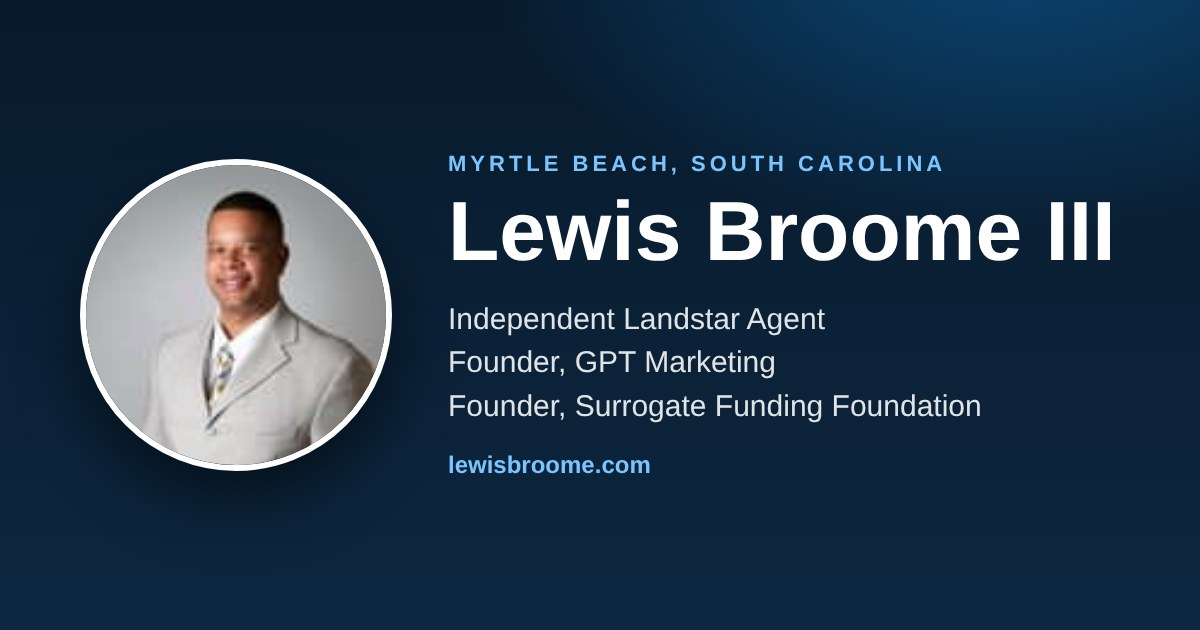
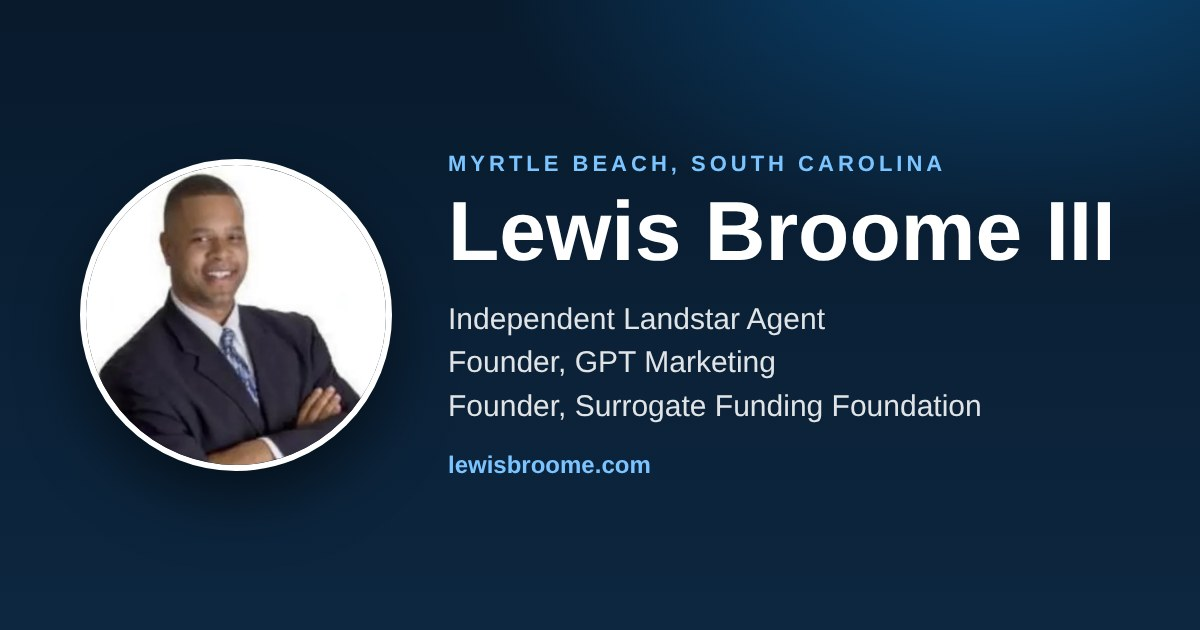
Lewis Broome page: real photos (The Closer headshot + 10-photo gallery), image sitemap, new share card
Claude-Session: https://claude.ai/code/session_015JXEzYEpCVQcp5Sg3sXWgy

Changed region(s): [[0.0617, 0.2413, 0.3392, 0.754]]

diff --git a/lewis-broome.html b/lewis-broome.html
@@ -21,6 +21,7 @@
 <meta name="twitter:title" content="Lewis Broome III · Landstar Agent &amp; Founder of GPT Marketing" />
 <meta name="twitter:description" content="Freight agent, marketing founder and community builder from Myrtle Beach, SC." />
 <meta name="twitter:image" content="https://www.lewisbroome.com/assets/lewis-broome-iii-card.jpg" />
+<link rel="preload" as="image" href="/assets/lewis-broome/lewis-broome-iii-landstar-agent-headshot.jpg" />
 <meta name="geo.region" content="US-SC" />
 <meta name="geo.placename" content="Myrtle Beach, South Carolina" />
 
@@ -32,6 +33,7 @@
   "url": "https://www.lewisbroome.com/lewis-broome",
   "name": "Lewis Broome III",
   "dateModified": "2026-11-14",
+  "primaryImageOfPage": { "@type": "ImageObject", "url": "https://www.lewisbroome.com/assets/lewis-broome/lewis-broome-iii-landstar-agent-headshot.jpg" },
   "mainEntity": {
     "@type": "Person",
     "@id": "https://www.lewisbroome.com/#lewis-broome",
@@ -41,11 +43,83 @@
     "familyName": "Broome",
     "honorificSuffix": "III",
     "url": "https://www.lewisbroome.com/lewis-broome",
-    "image": {
-      "@type": "ImageObject",
-      "url": "https://www.lewisbroome.com/assets/lewis-broome-iii.jpg",
-      "caption": "Lewis Broome III, Landstar agent and founder of GPT Marketing"
-    },
+    "image": [
+      {
+        "@type": "ImageObject",
+        "url": "https://www.lewisbroome.com/assets/lewis-broome-iii.jpg",
+        "caption": "Lewis Broome III, Landstar agent and founder of GPT Marketing"
+      },
+      {
+        "@type": "ImageObject",
+        "url": "https://www.lewisbroome.com/assets/lewis-broome/lewis-broome-iii-the-closer-suit.jpg",
+        "caption": "Lewis Broome III, “The Closer.” The original LewisBroome.com photo.",
+        "width": 435,
+        "height": 1220
+      },
+      {
+        "@type": "ImageObject",
+        "url": "https://www.lewisbroome.com/assets/lewis-broome/lewis-broome-iii-tesla-blue-polo.jpg",
+        "caption": "Lewis Broome III on the road in Myrtle Beach.",
+        "width": 1200,
+        "height": 1600
+      },
+      {
+        "@type": "ImageObject",
+        "url": "https://www.lewisbroome.com/assets/lewis-broome/lewis-broome-iii-fireworks-store.jpg",
+        "caption": "Lewis Broome III on the fireworks side of the business.",
+        "width": 745,
+        "height": 1512
+      },
+      {
+        "@type": "ImageObject",
+        "url": "https://www.lewisbroome.com/assets/lewis-broome/lewis-broome-iii-myrtle-beach-skywheel.jpg",
+        "caption": "Lewis Broome III at the SkyWheel, Myrtle Beach boardwalk.",
+        "width": 1600,
+        "height": 1200
+      },
+      {
+        "@type": "ImageObject",
+        "url": "https://www.lewisbroome.com/assets/lewis-broome/lewis-broome-iii-myrtle-beach-oceanfront.jpg",
+        "caption": "Lewis Broome III on the beach in Myrtle Beach.",
+        "width": 1600,
+        "height": 1200
+      },
+      {
+        "@type": "ImageObject",
+        "url": "https://www.lewisbroome.com/assets/lewis-broome/lewis-broome-iii-boat-radio.jpg",
+        "caption": "Lewis Broome III on the water, radio in hand.",
+        "width": 1200,
+        "height": 1600
+      },
+      {
+        "@type": "ImageObject",
+        "url": "https://www.lewisbroome.com/assets/lewis-broome/lewis-broome-iii-tesla-black-polo.jpg",
+        "caption": "Lewis Broome III between calls.",
+        "width": 1600,
+        "height": 1200
+      },
+      {
+        "@type": "ImageObject",
+        "url": "https://www.lewisbroome.com/assets/lewis-broome/lewis-broome-iii-myrtle-beach-hat.jpg",
+        "caption": "Lewis Broome III, Myrtle Beach, SC.",
+        "width": 1200,
+        "height": 1600
+      },
+      {
+        "@type": "ImageObject",
+        "url": "https://www.lewisbroome.com/assets/lewis-broome/lewis-broome-iii-game-day.jpg",
+        "caption": "Lewis Broome III on game day.",
+        "width": 1200,
+        "height": 1600
+      },
+      {
+        "@type": "ImageObject",
+        "url": "https://www.lewisbroome.com/assets/lewis-broome/lewis-broome-iii-headset.jpg",
+        "caption": "Lewis Broome III on the phones.",
+        "width": 1320,
+        "height": 1275
+      }
+    ],
     "jobTitle": "Independent Landstar Agent; Founder of GPT Marketing",
     "description": "Independent Landstar agent in Myrtle Beach, South Carolina, founder of GPT Marketing and founder and president of the Surrogate Funding Foundation.",
     "homeLocation": { "@type": "Place", "name": "Myrtle Beach, South Carolina", "address": { "@type": "PostalAddress", "addressLocality": "Myrtle Beach", "addressRegion": "SC", "addressCountry": "US" } },
@@ -93,7 +167,7 @@ header.top nav a{opacity:.8}
 .hero{background:radial-gradient(1200px 500px at 80% -10%,rgba(14,128,212,.35),transparent 60%),linear-gradient(180deg,var(--navy),var(--navy-2));color:#fff;padding:56px 0 64px}
 .hero .wrap{display:grid;grid-template-columns:auto 1fr;gap:36px;align-items:center}
 .portrait{width:200px;height:200px;border-radius:50%;overflow:hidden;border:4px solid rgba(255,255,255,.9);box-shadow:0 20px 50px rgba(0,0,0,.45);background:#dfe6ee}
-.portrait img{width:100%;height:100%;object-fit:cover;object-position:50% 30%;display:block}
+.portrait img{width:100%;height:100%;object-fit:cover;object-position:50% 15%;display:block}
 .kicker{font-size:.78rem;letter-spacing:2px;text-transform:uppercase;font-weight:800;color:#7cc4ff}
 h1{font-family:Archivo;font-weight:900;font-size:clamp(2.3rem,6vw,3.6rem);line-height:1.05;margin:6px 0 12px}
 .hero p.lede{font-size:1.12rem;color:rgba(255,255,255,.82);max-width:620px}
@@ -121,6 +195,11 @@ h2{font-family:Archivo;font-weight:800;font-size:clamp(1.6rem,3.6vw,2.2rem);line
 .links{display:flex;flex-wrap:wrap;gap:10px}
 .links a{display:inline-flex;align-items:center;gap:8px;padding:10px 16px;border-radius:12px;border:1px solid var(--line);background:#fff;font-weight:700;text-decoration:none;color:var(--ink)}
 .note{font-size:.88rem;color:var(--ink-2);margin-top:22px;max-width:760px}
+.gallery{columns:3 260px;column-gap:16px}
+.gallery figure{break-inside:avoid;margin:0 0 16px;background:#fff;border:1px solid var(--line);border-radius:14px;overflow:hidden;box-shadow:0 4px 16px rgba(10,31,51,.06)}
+.gallery img{display:block;width:100%;height:auto}
+.gallery figcaption{font-size:.86rem;color:var(--ink-2);padding:10px 12px;font-weight:600}
+.portrait{background:#fff}
 footer{background:var(--navy);color:rgba(255,255,255,.6);font-size:.82rem;padding:28px 0 100px}
 footer a{color:rgba(255,255,255,.8)}
 @media (max-width:760px){
@@ -130,6 +209,9 @@ footer a{color:rgba(255,255,255,.8)}
   .grid{grid-template-columns:1fr}
   .facts{grid-template-columns:repeat(2,1fr)}
   header.top nav{display:none}
+  .gallery{columns:2;column-gap:10px}
+  .gallery figure{margin-bottom:10px}
+  .gallery figcaption{font-size:.76rem;padding:8px}
 }
 </style>
 </head>
@@ -150,9 +232,9 @@ footer a{color:rgba(255,255,255,.8)}
 <main>
 <section class="hero">
   <div class="wrap">
-    <div class="portrait"><img src="/assets/lewis-broome-iii.jpg" alt="Lewis Broome III, independent Landstar agent and founder of GPT Marketing, Myrtle Beach SC" width="144" height="124" /></div>
+    <div class="portrait"><img src="/assets/lewis-broome/lewis-broome-iii-landstar-agent-headshot.jpg" alt="Lewis Broome III, independent Landstar agent and founder of GPT Marketing, Myrtle Beach SC" width="436" height="436" /></div>
     <div>
-      <span class="kicker">Myrtle Beach, South Carolina</span>
+      <span class="kicker">The Closer &middot; Myrtle Beach, South Carolina</span>
       <h1>Lewis Broome III</h1>
       <p class="lede">Independent Landstar agent, founder of GPT Marketing, and founder of the Surrogate Funding Foundation. I move freight, build marketing for small businesses, and help young men get a fair start.</p>
       <div class="chips">
@@ -212,6 +294,25 @@ footer a{color:rgba(255,255,255,.8)}
       <div class="fact"><b>50</b><span>States, plus Canada &amp; Mexico</span></div>
       <div class="fact"><b>3</b><span>Organizations founded</span></div>
       <div class="fact"><b>SC</b><span>Myrtle Beach, South Carolina</span></div>
+    </div>
+  </div>
+</section>
+
+<section class="block soft" id="photos">
+  <div class="wrap">
+    <h2>Photos of Lewis Broome</h2>
+    <p class="sub">Lewis Broome III at work and around Myrtle Beach. Since 1999, the closer behind LewisBroome.com.</p>
+    <div class="gallery">
+      <figure><img src="/assets/lewis-broome/lewis-broome-iii-the-closer-suit.jpg" alt="Lewis Broome III, The Closer, in a navy suit with arms crossed" width="435" height="1220" loading="lazy" decoding="async" /><figcaption>Lewis Broome III, “The Closer.” The original LewisBroome.com photo.</figcaption></figure>
+      <figure><img src="/assets/lewis-broome/lewis-broome-iii-tesla-blue-polo.jpg" alt="Lewis Broome III in a blue polo, Myrtle Beach SC" width="1200" height="1600" loading="lazy" decoding="async" /><figcaption>Lewis Broome III on the road in Myrtle Beach.</figcaption></figure>
+      <figure><img src="/assets/lewis-broome/lewis-broome-iii-fireworks-store.jpg" alt="Lewis Broome III at a fireworks store" width="745" height="1512" loading="lazy" decoding="async" /><figcaption>Lewis Broome III on the fireworks side of the business.</figcaption></figure>
+      <figure><img src="/assets/lewis-broome/lewis-broome-iii-myrtle-beach-skywheel.jpg" alt="Lewis Broome III at the Myrtle Beach SkyWheel" width="1600" height="1200" loading="lazy" decoding="async" /><figcaption>Lewis Broome III at the SkyWheel, Myrtle Beach boardwalk.</figcaption></figure>
+      <figure><img src="/assets/lewis-broome/lewis-broome-iii-myrtle-beach-oceanfront.jpg" alt="Lewis Broome III on the beach in Myrtle Beach, South Carolina" width="1600" height="1200" loading="lazy" decoding="async" /><figcaption>Lewis Broome III on the beach in Myrtle Beach.</figcaption></figure>
+      <figure><img src="/assets/lewis-broome/lewis-broome-iii-boat-radio.jpg" alt="Lewis Broome III on the boat radio" width="1200" height="1600" loading="lazy" decoding="async" /><figcaption>Lewis Broome III on the water, radio in hand.</figcaption></figure>
+      <figure><img src="/assets/lewis-broome/lewis-broome-iii-tesla-black-polo.jpg" alt="Lewis Broome III, Landstar agent, in a black polo" width="1600" height="1200" loading="lazy" decoding="async" /><figcaption>Lewis Broome III between calls.</figcaption></figure>
+      <figure><img src="/assets/lewis-broome/lewis-broome-iii-myrtle-beach-hat.jpg" alt="Lewis Broome III in a Myrtle Beach hat" width="1200" height="1600" loading="lazy" decoding="async" /><figcaption>Lewis Broome III, Myrtle Beach, SC.</figcaption></figure>
+      <figure><img src="/assets/lewis-broome/lewis-broome-iii-game-day.jpg" alt="Lewis Broome III watching the game" width="1200" height="1600" loading="lazy" decoding="async" /><figcaption>Lewis Broome III on game day.</figcaption></figure>
+      <figure><img src="/assets/lewis-broome/lewis-broome-iii-headset.jpg" alt="Lewis Broome III on a headset taking calls" width="1320" height="1275" loading="lazy" decoding="async" /><figcaption>Lewis Broome III on the phones.</figcaption></figure>
     </div>
   </div>
 </section>
